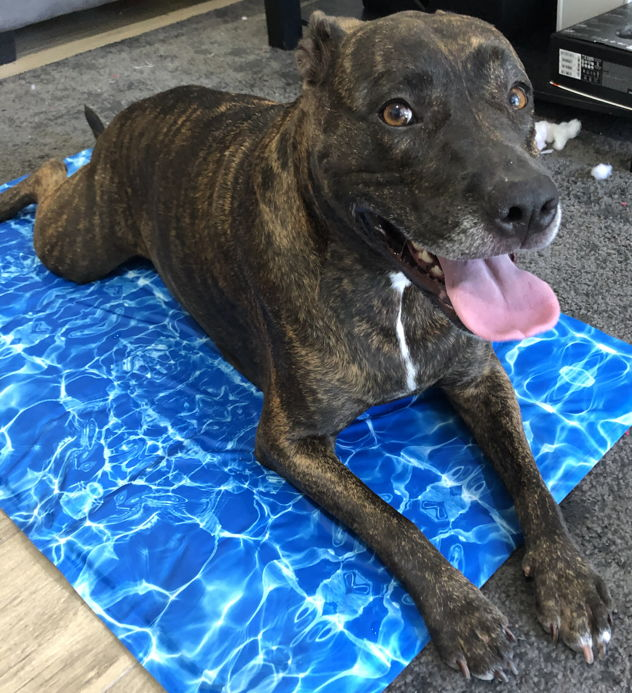
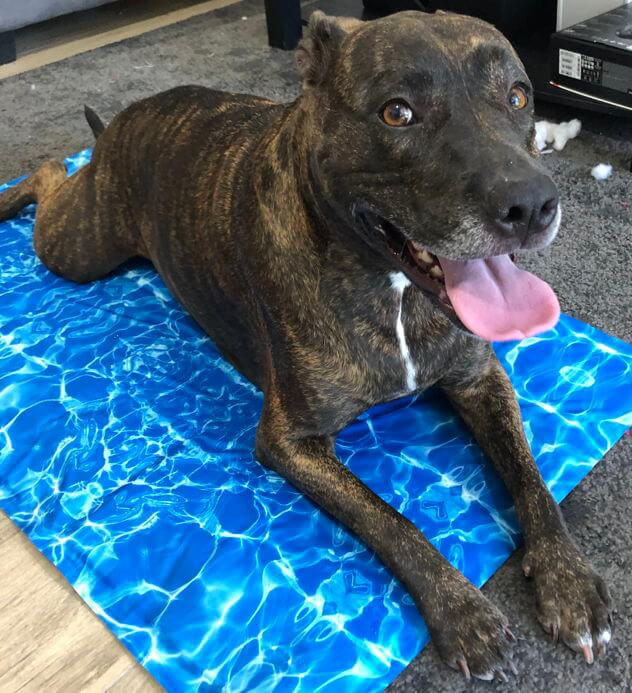
Home: Compress images and update a link

diff --git a/src/sections/Home/Home.tsx b/src/sections/Home/Home.tsx
@@ -32,7 +32,7 @@ const Home = () => {
         <figure className="w-1/3 flex justify-center items-center">
           <img
             className="rounded-lg shadow-md"
-            src="/pei_ying_wu.jpg"
+            src="/pei_ying_wu.jpeg"
             alt="Pei Ying Wu"
             width="277"
             height="327"
